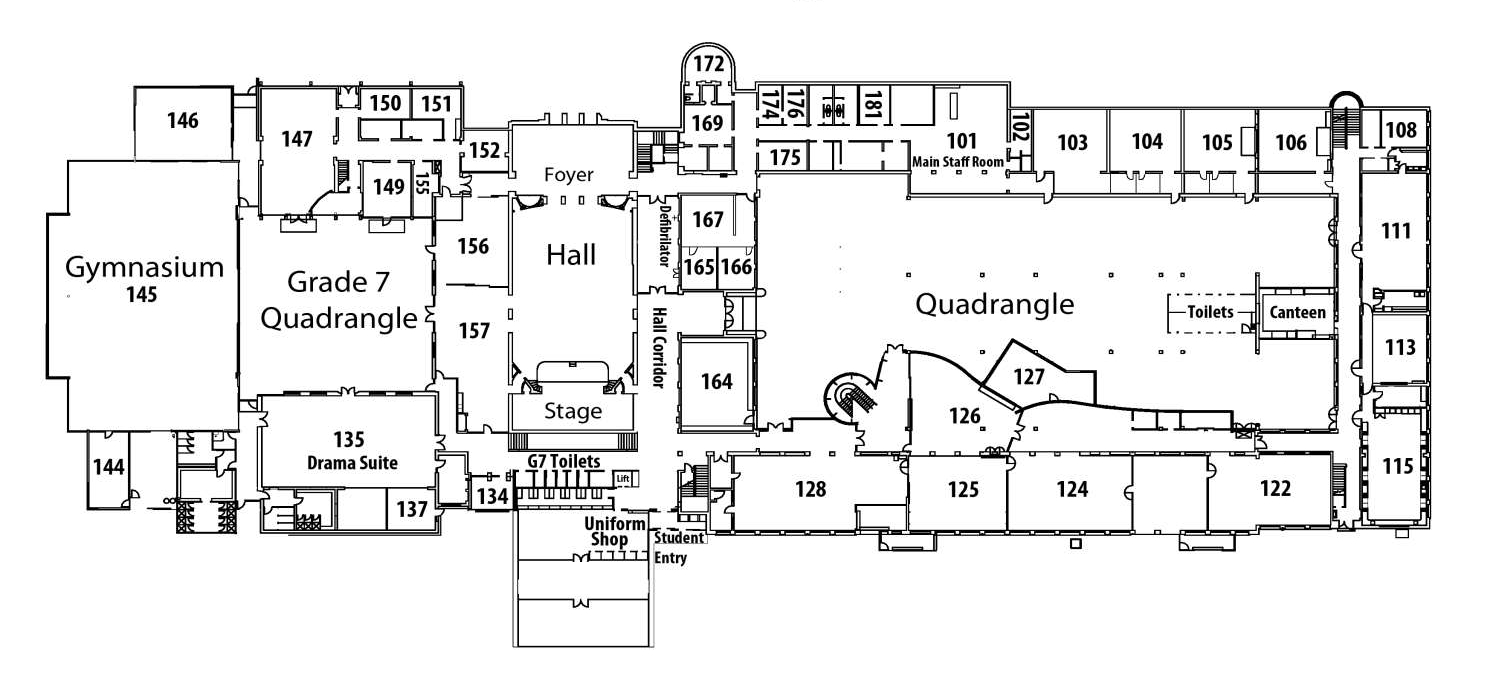
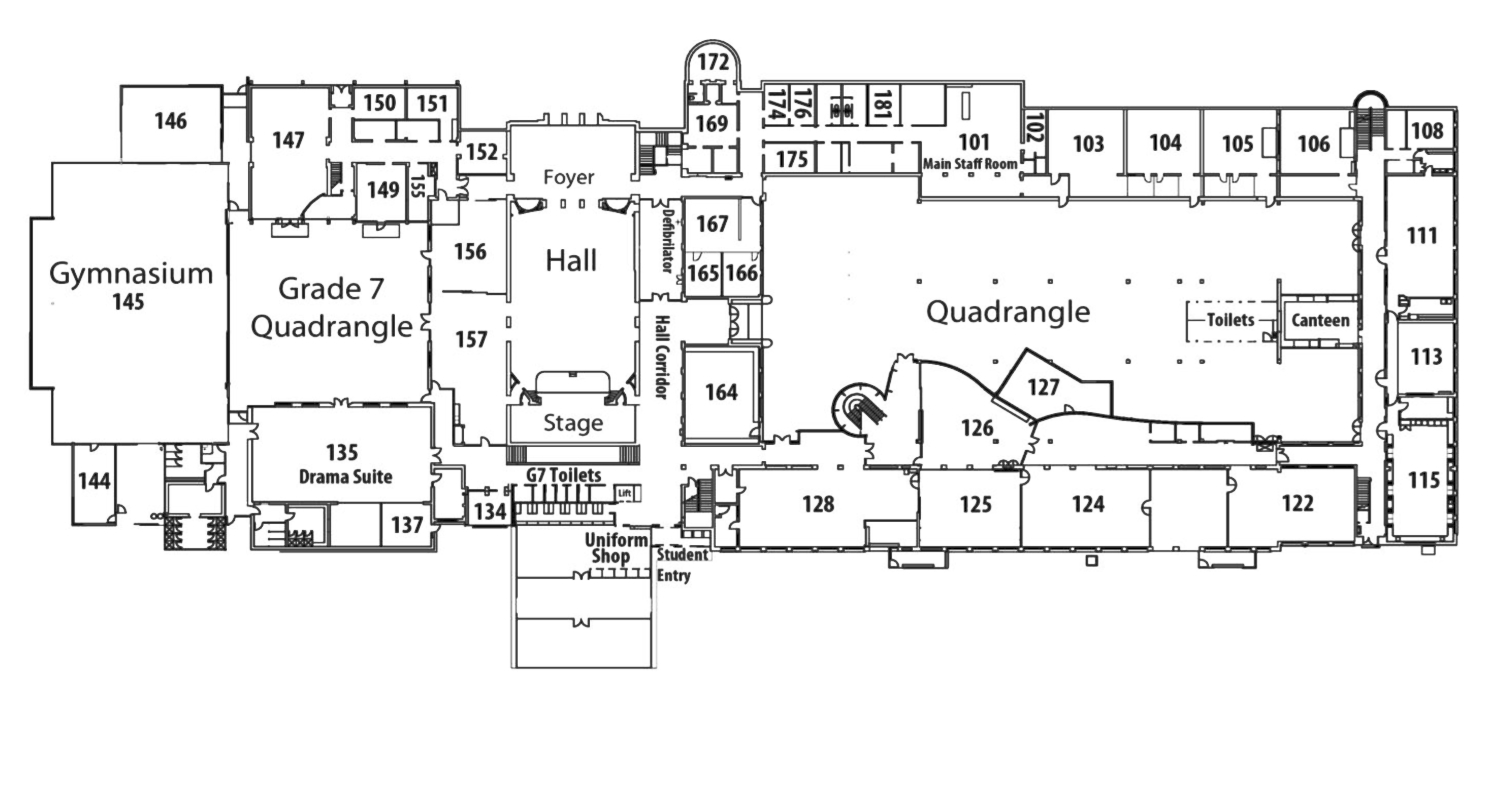
Fixed images + finished basic map

Changed region(s): [[0.0, 0.0308, 0.984, 0.9545]]

diff --git a/streetview/content.html b/streetview/content.html
@@ -13,23 +13,35 @@
 	<img src="/streetview/mapUp.jpg" width="100%"></img>
 	<div class="mapIcons" id="mapIcons">
 		<svg height="100%" width="100%" viewBox="0 0 250 250">
-			<circle id="MkUp-NE" class="marker markerRed" cx="333" cy="45"/>
-			<circle id="MkUp-NCenE" class="marker" cx="264" cy="45"/>
-			<circle id="MkUp-NCenW" class="marker" cx="161" cy="45"/>
-			<circle id="MkUp-NW" class="marker" cx="101" cy="44"/>
-			
-			<circle id="MkUp-SE" class="marker" cx="334" cy="134"/>
-			<circle id="MkUp-SCen" class="marker" cx="283" cy="134"/>
-			<circle id="MkUp-SW" class="marker" cx="170" cy="131"/>
-			
-			
-			<circle id="MkDown-NE" class="marker" cx="350" cy="45"/>
+			<circle id="MkUp-NE" class="marker markerRed" cx="320" cy="58"/>
+			<circle id="MkUp-NCenE" class="marker" cx="255" cy="58"/>
+			<circle id="MkUp-NCenW" class="marker" cx="159" cy="58"/>
+			<circle id="MkUp-NW" class="marker" cx="101" cy="57"/>
+			<circle id="MkUp-SE" class="marker" cx="320" cy="142"/>
+			<circle id="MkUp-SCen" class="marker" cx="283" cy="141"/>
+			<circle id="MkUp-SW" class="marker" cx="170" cy="138"/>
+			<circle id="MkUp-Classroom" class="marker" cx="238" cy="72"/>
+			<circle id="MkUp-Foyer" class="marker" cx="71" cy="58"/>
 			
 			
-			<circle id="MkMid-NE" class="marker" cx="332" cy="15"/>
-			<circle id="MkMid-NW" class="marker" cx="96" cy="29"/>
-			<circle id="MkMid-SE" class="marker" cx="332" cy="158"/>
-			<circle id="MkMid-SW" class="marker" cx="160" cy="115"/>
+			<circle id="MkDown-NE" class="marker markerDown" cx="317" cy="53"/>
+			<circle id="MkDown-NW" class="marker markerDown" cx="98" cy="57"/>
+			<circle id="MkDown-CenE" class="marker markerDown" cx="319" cy="75"/>
+			<circle id="MkDown-SE" class="marker markerDown" cx="319" cy="133"/>
+			<circle id="MkDown-SW" class="marker markerDown" cx="173" cy="133"/>
+			<circle id="MkDown-Foyer" class="marker markerDown" cx="71" cy="55"/>
+			
+			<circle id="MkDown-QuadNE" class="marker markerDown" cx="297" cy="78"/>
+			<circle id="MkDown-QuadNW" class="marker markerDown" cx="149" cy="70"/>
+			<circle id="MkDown-QuadSE" class="marker markerDown" cx="284" cy="122"/>
+			<circle id="MkDown-QuadSW" class="marker markerDown" cx="160" cy="105"/>
+			<circle id="MkDown-QuadCen" class="marker markerDown" cx="233" cy="100"/>
+			
+			
+			<circle id="MkMid-NE" class="marker" cx="319" cy="31"/>
+			<circle id="MkMid-NW" class="marker" cx="98" cy="42"/>
+			<circle id="MkMid-SE" class="marker" cx="319" cy="165"/>
+			<circle id="MkMid-SW" class="marker" cx="158" cy="124"/>
 		</svg>
 	</div>
 </div>

diff --git a/streetview/map.js b/streetview/map.js
@@ -1,6 +1,21 @@
 const mapBtn = document.getElementById("mapBtn");
 const map = document.getElementById("map");
+const mapImg = map.getElementsByTagName("img")[0];
 const panorama = document.getElementById("panorama");
+
+const regExCheckDown = /Down/;
+const regExCheckUp = /Up/;
+
+const circles = Array.from(document.getElementById("mapIcons").getElementsByTagName("circle"));
+var circlesUp = [];
+var circlesDown = [];
+circles.forEach(function(a) { // Sorts circles into seperate Up and Down lists
+	if(regExCheckUp.test(a.id)) {
+		circlesUp.push(a);
+	} else if(regExCheckDown.test(a.id)) {
+		circlesDown.push(a);
+	}
+});
 
 function showMap() {
 	map.style.display = "block";
@@ -21,18 +36,30 @@ function hideMap() {
 
 function updateMarkers() {
 	const scene = viewer.getScene();
-	const circles = document.getElementById("mapIcons").getElementsByTagName("circle");
 	const redCircle = document.getElementById("Mk" + scene);
-	Array.from(circles).forEach(function (a) { // Remove the markerRed class from all circles
+	circles.forEach(function(a) { // Remove the markerRed class from all circles
 		a.classList.remove("markerRed");
 	});
 	redCircle.classList.add("markerRed"); // Add the markerRed class to the red cirle
 	
-	const regExCheckDown = /Down/;
-	if(regExCheckDown.test(scene)) {
-		map.getElementsByTagName("img")[0].src = "/streetview/mapDown.jpg";
-	} else {
-		map.getElementsByTagName("img")[0].src = "/streetview/mapUp.jpg";
+	if(regExCheckUp.test(scene)) { // Change the actual map and show + hide icons
+		mapImg.src = "/streetview/mapUp.jpg";
+		
+		circlesUp.forEach(function(a) {
+			a.style.display = "block";
+		});
+		circlesDown.forEach(function(a) {
+			a.style.display = "none";
+		});
+	} else if(regExCheckDown.test(scene)) {
+		mapImg.src = "/streetview/mapDown.jpg";
+		
+		circlesDown.forEach(function(a) {
+			a.style.display = "block";
+		});
+		circlesUp.forEach(function(a) {
+			a.style.display = "none";
+		});
 	}
 }
 viewer.on("scenechange", function() {updateMarkers();}); // Don't even ask me why I need to wrap this in an anonymous function

diff --git a/streetview/streetview.css b/streetview/streetview.css
@@ -22,6 +22,9 @@
 	stroke-width: 1;
 	fill: grey;
 }
+.marker.markerDown {
+	display: none;
+}
 .marker.markerRed {
 	r: 3;
 	fill: red;
